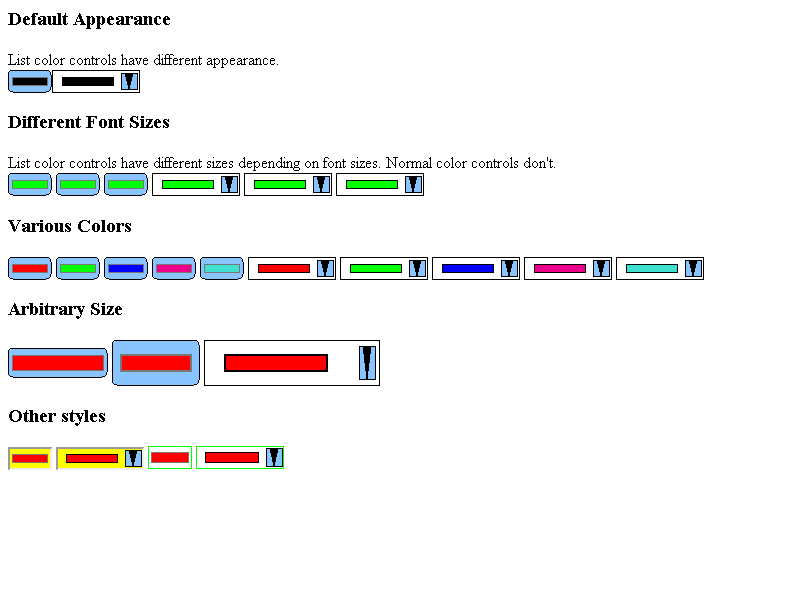
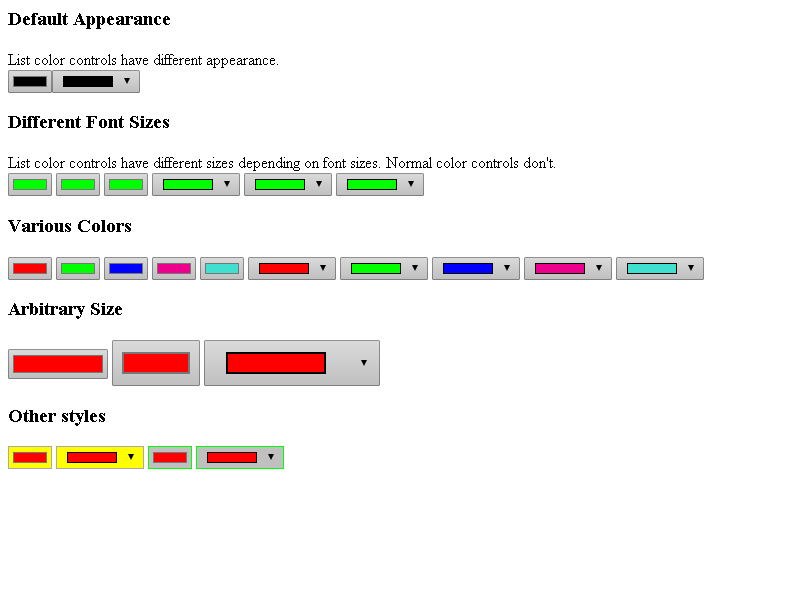
input[type=color] should look like a button
- We should apply ButtonFace background instead of white.
- For fallback style, use |1px #a9a9a solid| border to match Aura buttons.
- Adjust paddings

BUG=360997
TEST=automated

Review URL: https://codereview.chromium.org/225413019

git-svn-id: svn://svn.chromium.org/blink/trunk@171032 bbb929c8-8fbe-4397-9dbb-9b2b20218538

diff --git a/Source/core/css/html.css b/Source/core/css/html.css
@@ -793,6 +793,10 @@ input[type="color"] {
     -webkit-appearance: square-button;
     width: 44px;
     height: 23px;
+    background-color: ButtonFace;
+    /* Same as native_theme_base. */
+    border: 1px #a9a9a9 solid;
+    padding: 1px 2px;
 }
 
 input[type="color"]::-webkit-color-swatch-wrapper {

diff --git a/LayoutTests/fast/forms/color/input-appearance-color.html b/LayoutTests/fast/forms/color/input-appearance-color.html
@@ -1,3 +1,7 @@
+<script>
+if (window.testRunner)
+    testRunner.setUseMockTheme(false);
+</script>
 <h3>Default Appearance</h3>
 List color controls have different appearance.<br>
 <input type="color"><input type="color" list>

diff --git a/Source/core/css/themeWin.css b/Source/core/css/themeWin.css
@@ -33,7 +33,6 @@
    making our form elements match Firefox's. */
 
 input:not([type]), 
-input[type="color"],
 input[type="email"],
 input[type="number"],
 input[type="password"],
